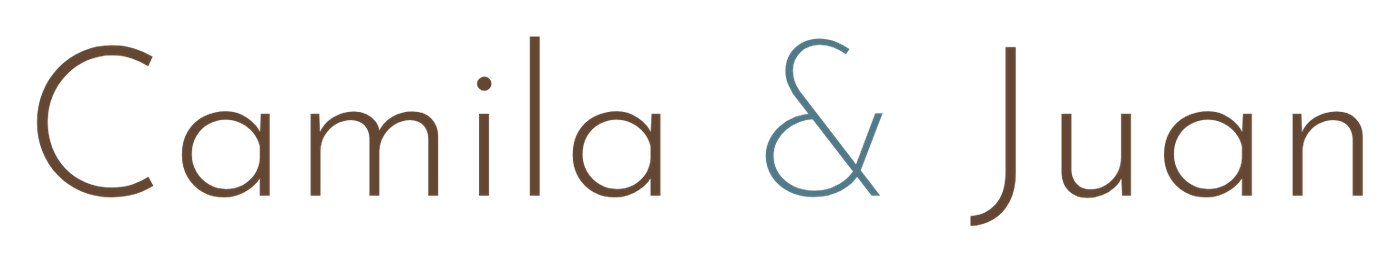
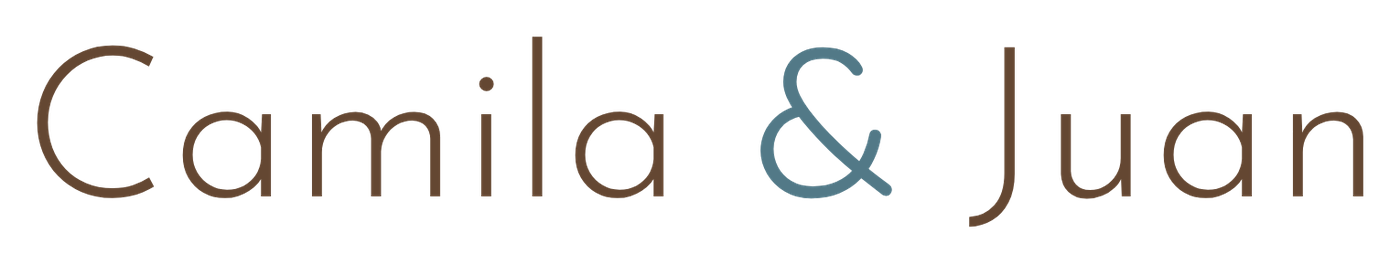
Imágenes de título por tipografía para las vistas ?fuente=
Claude-Session: https://claude.ai/code/session_01CPC8ckxxTpQ5o2jahJbfrt

diff --git a/invitacion/styles.css b/invitacion/styles.css
@@ -249,9 +249,6 @@ body:after{display:none}
 @media (max-width:340px){.hashtag{font-size:11px!important}.action-grid{grid-template-columns:1fr}}
 /* Prueba de tipografía redondeada (solo con ?fuente=...) */
 .fuente-prueba body,.fuente-prueba button,.fuente-prueba input,.fuente-prueba select,.fuente-prueba textarea{font-family:var(--fuente)}
-.fuente-prueba .names{font-family:var(--fuente)!important;font-style:normal;font-weight:400;letter-spacing:1px;text-transform:lowercase;font-size:clamp(40px,12vw,58px);line-height:1.15;white-space:nowrap}
-.fuente-prueba .names span{color:var(--petroleum);font-family:inherit!important;font-style:normal}
-.fuente-prueba footer .names{font-size:34px}
 .fuente-prueba .gala,.fuente-prueba .script{font-family:var(--fuente)!important;font-style:normal;text-transform:lowercase;font-weight:300;letter-spacing:2px}
 .fuente-prueba h2,.fuente-prueba .date,.fuente-prueba .countdown strong{font-weight:400}
-.fuente-prueba .names{font-weight:300}
+.fuente-prueba .names img{height:auto}

diff --git a/invitacion/app.js b/invitacion/app.js
@@ -9,8 +9,8 @@
   document.head.append(l);
   document.documentElement.classList.add('fuente-prueba');
   document.documentElement.style.setProperty('--fuente', "'" + fam + "', sans-serif");
-  document.addEventListener('DOMContentLoaded', () => document.querySelectorAll('.names').forEach(n => {
-    n.innerHTML = 'camila <span>&amp;</span> juan';
+  document.addEventListener('DOMContentLoaded', () => document.querySelectorAll('.names img').forEach(i => {
+    i.src = 'assets/nombres-' + f + '.png?v=2'; i.removeAttribute('height');
   }));
 })();
 // Animaciones de carga: el encabezado entra en cascada y el resto al hacer scroll.

diff --git a/index.html b/index.html
@@ -81,6 +81,7 @@
     <div class="invitacion">
       <span class="eyebrow">Nos casamos</span>
       <img class="names" src="invitacion/assets/nombres.png" alt="Camila &amp; Juan">
+      <script>(function(){var f=new URLSearchParams(location.search).get('fuente');if(/^(quicksand|nunito|comfortaa|josefin|raleway|jost|poppins|montserrat|lexend)$/.test(f||''))document.currentScript.previousElementSibling.src='invitacion/assets/nombres-'+f+'.png?v=2';})();</script>
       <img class="line" src="invitacion/assets/linea.png" alt="">
       <span class="date">08.12.2026</span>
       <span class="place">Palacio Sans Souci</span>

diff --git a/invitacion/index.html b/invitacion/index.html
@@ -7,8 +7,8 @@
   <title>Camila & Juan · Nos casamos</title>
   <link rel="preconnect" href="https://fonts.gstatic.com" crossorigin>
   <link rel="stylesheet" href="https://fonts.googleapis.com/css2?family=Pinyon+Script&display=swap">
-  <link rel="stylesheet" href="styles.css?v=1793125371">
-  <script src="app.js?v=1793125371" defer></script>
+  <link rel="stylesheet" href="styles.css?v=1793126058">
+  <script src="app.js?v=1793126058" defer></script>
 </head>
 <body>
 <svg class="svg-definitions" aria-hidden="true" xmlns="http://www.w3.org/2000/svg"><defs>
